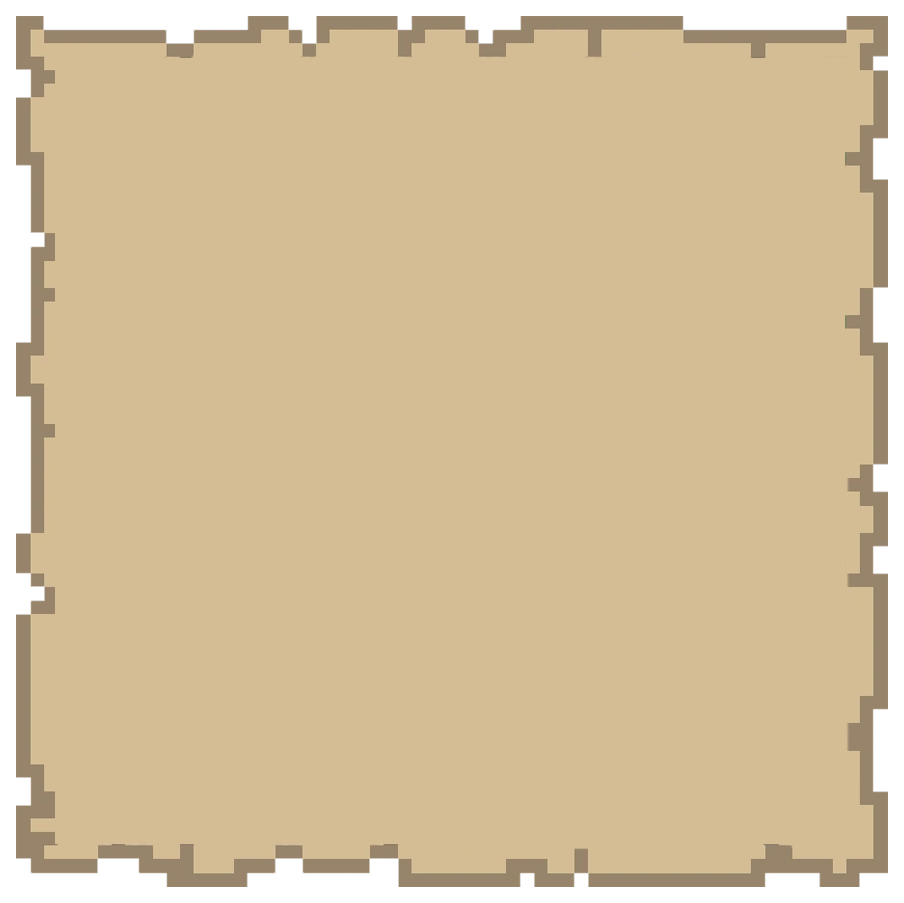
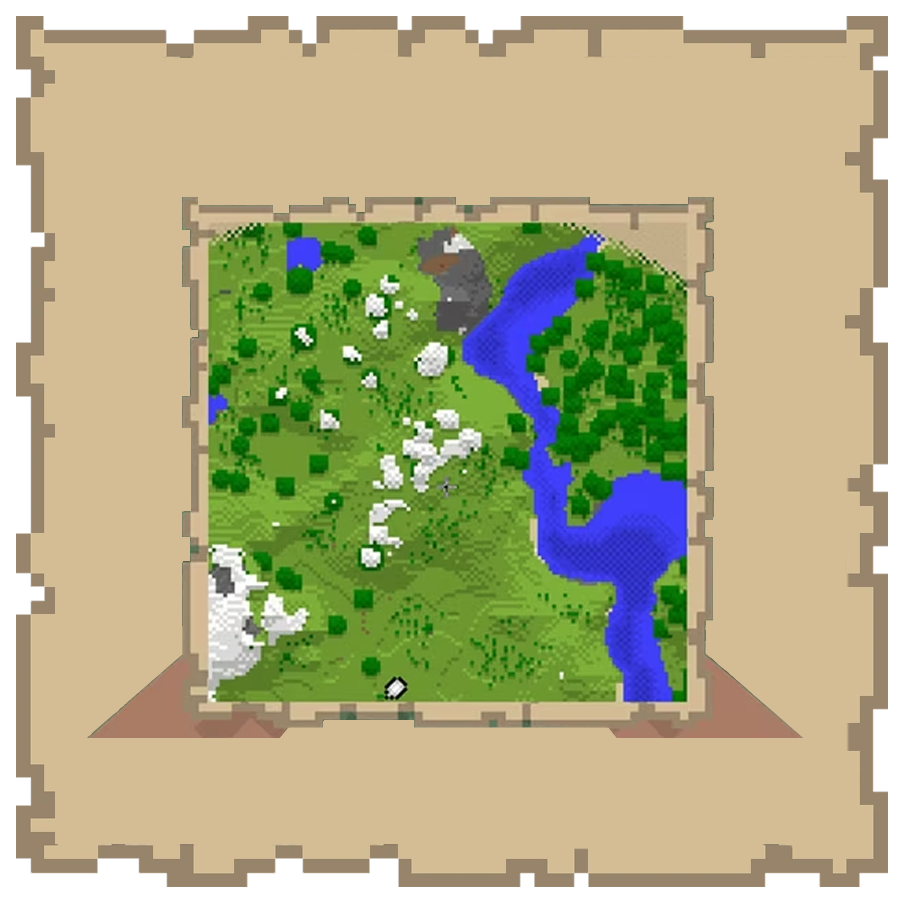
styling fixes + map refactpr
+upgraded index map info
+style bugfixes

diff --git a/brentyns.com/pages/index.vue b/brentyns.com/pages/index.vue
@@ -8,8 +8,8 @@
           than this! <br />
           <br />
 
-          Highly avaliable 24/7 bedrock minecraft server. View
-          our <NuxtLink to="about"> about page </NuxtLink> for more details.
+          Highly avaliable 24/7 bedrock minecraft server. View our
+          <NuxtLink to="about"> about page </NuxtLink> for more details.
         </p>
       </div>
 
@@ -28,8 +28,11 @@
 
       <p>Players Online :</p>
     </div>
-
+    <h3 id="map_section_header">On the map!</h3>
     <div id="map_section">
+      <div>
+        <NuxtLink to="/map"> <button>Take a look now!</button> </NuxtLink>
+      </div>
       <div>
         <p>
           Embrace new adventures more readily by never again feeling the string
@@ -38,17 +41,15 @@
           Find yourself (or your foes!) with an interative online map that is
           updated regularly.
         </p>
-
-        <NuxtLink to="/map"> <button>Take a look now!</button> </NuxtLink>
       </div>
     </div>
 
     <div id="contact">
-        <img
-          src="~/assets/skelly.png"
-          alt="minecraft skeleton with big eyes"
-          max-width="100%"
-        />
+      <img
+        src="~/assets/skelly.png"
+        alt="minecraft skeleton with big eyes"
+        max-width="100%"
+      />
       <div>
         <h3>Get in touch?</h3>
         <p>
@@ -63,13 +64,7 @@
 </template>
 
 <script>
-export default {
-  head() {
-    return {
-      title: "About page",
-    };
-  },
-};
+export default {};
 </script>
 
 <style>
@@ -85,7 +80,7 @@ export default {
   text-align: center;
 }
 #intro > div:nth-child(1) {
-  padding: 4rem .5rem 2rem .5rem;
+  padding: 4rem 0.5rem 2rem 0.5rem;
   width: 400px;
   text-shadow: 2px 2px #000;
 }
@@ -108,35 +103,39 @@ export default {
   margin: 4rem auto;
 }
 
+#map_section_header {
+  text-align: center;
+  font-size: 1.3rem;
+  padding-bottom: 2rem;
+  text-shadow: 2px 2px 4px #000;
+}
 #map_section {
+  width: 100%;
+  min-height: fit-content;
+  margin: 0 auto;
+  padding: 0;
+  display: flex;
+  flex-wrap: wrap;
+  justify-content: center;
+}
+#map_section > div:first-of-type {
   width: 400px;
   max-width: 100%;
-  height: auto;
-  margin: 4rem auto;
-}
-#map_section > div {
-  width: 100%;
-  height: fit-content;
+  height: 400px;
+  max-height: 100%;
   text-align: center;
   background-image: url(~/assets/map.png);
   background-position: center;
   background-repeat: no-repeat;
-  background-size: cover;
-}
-#map_section > div > p {
-  text-align: left;
-  padding: 3rem 3rem 2rem 3rem;
-  font-size: 1.2rem;
+  background-size: contain;
 }
 #map_section > div > a > button {
-  margin: 1rem;
-  margin-bottom: 4rem;
   border-radius: 4px;
+  margin-top: 40%;
   padding: 1rem;
   font-family: Minecraft_Title;
   font-size: 1.2rem;
   color: #000;
-  background-image: linear-gradient(#000 #fff #000);
 }
 #map_section > div > a > button:hover {
   background-color: chartreuse;
@@ -145,9 +144,18 @@ export default {
   background-color: green;
   color: white;
 }
+#map_section > div:not(:first-of-type) {
+  width: clamp(200px, 50%, 300px);
+  height: fit-content;
+  text-align: left;
+  padding: 3rem;
+  font-size: 1.2rem;
+  text-shadow: 2px 2px 4px #000;
+}
 
 #contact {
-  margin: 4rem auto;
+  margin:4rem auto;
+  padding-top: 2rem;
   display: flex;
   justify-content: center;
   flex-direction: row;

diff --git a/brentyns.com/pages/about.vue b/brentyns.com/pages/about.vue
@@ -83,9 +83,9 @@
 }
 
 #intro>img {
-    padding: 10rem 4rem;
-    width: 200px;
-    max-width: 100%;
+    padding: 6rem 4rem;
+    margin: 1rem;
+    width: clamp(100px, 250px, 100%);
     height: fit-content;
 
 }
